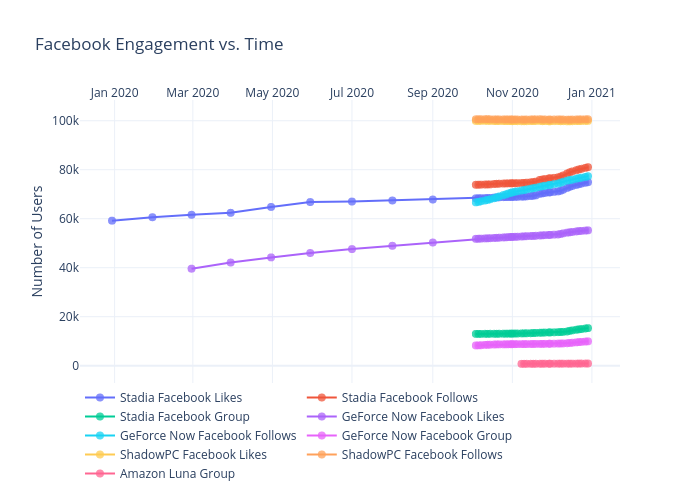
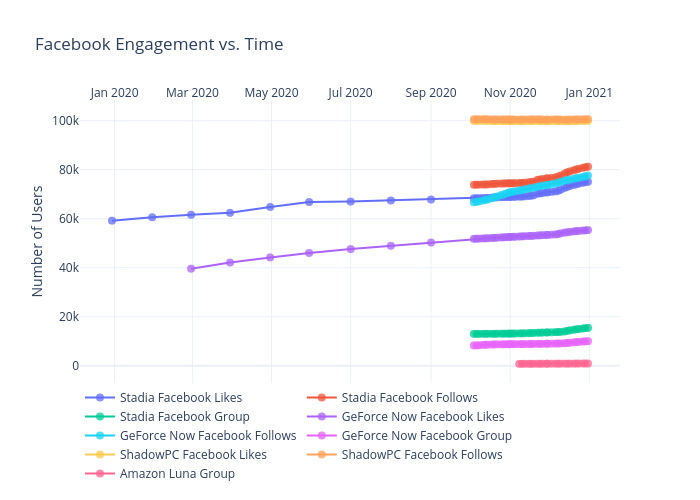
Add files via upload

diff --git a/facebook/figure.js b/facebook/figure.js
@@ -68,7 +68,20 @@ var figure = {
                 "2020-12-27",
                 "2020-12-29",
                 "2020-12-31",
-                "2021-01-03"
+                "2021-01-03",
+                "2021-01-05",
+                "2021-01-07",
+                "2021-01-10",
+                "2021-01-12",
+                "2021-01-14",
+                "2021-01-17",
+                "2021-01-19",
+                "2021-01-21",
+                "2021-01-24",
+                "2021-01-26",
+                "2021-01-28",
+                "2021-01-31",
+                "2021-02-02"
             ],
             "ysrc": "jdeslip:362:0d12c0",
             "y": [
@@ -126,7 +139,8 @@ var figure = {
                 "74088",
                 "74366",
                 "74681",
-                "74911"
+                "74911",
+                "75086"
             ],
             "marker": {
                 "size": 8,
@@ -204,7 +218,20 @@ var figure = {
                 "2020-12-27",
                 "2020-12-29",
                 "2020-12-31",
-                "2021-01-03"
+                "2021-01-03",
+                "2021-01-05",
+                "2021-01-07",
+                "2021-01-10",
+                "2021-01-12",
+                "2021-01-14",
+                "2021-01-17",
+                "2021-01-19",
+                "2021-01-21",
+                "2021-01-24",
+                "2021-01-26",
+                "2021-01-28",
+                "2021-01-31",
+                "2021-02-02"
             ],
             "ysrc": "jdeslip:362:b3ea7e",
             "y": [
@@ -262,7 +289,8 @@ var figure = {
                 "80103",
                 "80377",
                 "80771",
-                "81041"
+                "81041",
+                "81243"
             ],
             "marker": {
                 "size": 8,
@@ -340,7 +368,20 @@ var figure = {
                 "2020-12-27",
                 "2020-12-29",
                 "2020-12-31",
-                "2021-01-03"
+                "2021-01-03",
+                "2021-01-05",
+                "2021-01-07",
+                "2021-01-10",
+                "2021-01-12",
+                "2021-01-14",
+                "2021-01-17",
+                "2021-01-19",
+                "2021-01-21",
+                "2021-01-24",
+                "2021-01-26",
+                "2021-01-28",
+                "2021-01-31",
+                "2021-02-02"
             ],
             "ysrc": "jdeslip:362:e57889",
             "y": [
@@ -398,7 +439,8 @@ var figure = {
                 "14831",
                 "14956",
                 "15175",
-                "15330"
+                "15330",
+                "15449"
             ],
             "marker": {
                 "size": 8,
@@ -476,7 +518,20 @@ var figure = {
                 "2020-12-27",
                 "2020-12-29",
                 "2020-12-31",
-                "2021-01-03"
+                "2021-01-03",
+                "2021-01-05",
+                "2021-01-07",
+                "2021-01-10",
+                "2021-01-12",
+                "2021-01-14",
+                "2021-01-17",
+                "2021-01-19",
+                "2021-01-21",
+                "2021-01-24",
+                "2021-01-26",
+                "2021-01-28",
+                "2021-01-31",
+                "2021-02-02"
             ],
             "ysrc": "jdeslip:362:4e0b8a",
             "y": [
@@ -534,7 +589,8 @@ var figure = {
                 "54956",
                 "55019",
                 "55151",
-                "55250"
+                "55250",
+                "55336"
             ],
             "marker": {
                 "size": 8,
@@ -612,7 +668,20 @@ var figure = {
                 "2020-12-27",
                 "2020-12-29",
                 "2020-12-31",
-                "2021-01-03"
+                "2021-01-03",
+                "2021-01-05",
+                "2021-01-07",
+                "2021-01-10",
+                "2021-01-12",
+                "2021-01-14",
+                "2021-01-17",
+                "2021-01-19",
+                "2021-01-21",
+                "2021-01-24",
+                "2021-01-26",
+                "2021-01-28",
+                "2021-01-31",
+                "2021-02-02"
             ],
             "ysrc": "jdeslip:362:3b7b8c",
             "y": [
@@ -670,7 +739,8 @@ var figure = {
                 "76567",
                 "76753",
                 "77060",
-                "77347"
+                "77347",
+                "77640"
             ],
             "marker": {
                 "size": 8,
@@ -748,7 +818,20 @@ var figure = {
                 "2020-12-27",
                 "2020-12-29",
                 "2020-12-31",
-                "2021-01-03"
+                "2021-01-03",
+                "2021-01-05",
+                "2021-01-07",
+                "2021-01-10",
+                "2021-01-12",
+                "2021-01-14",
+                "2021-01-17",
+                "2021-01-19",
+                "2021-01-21",
+                "2021-01-24",
+                "2021-01-26",
+                "2021-01-28",
+                "2021-01-31",
+                "2021-02-02"
             ],
             "ysrc": "jdeslip:362:60c2c8",
             "y": [
@@ -806,7 +889,8 @@ var figure = {
                 "9628",
                 "9708",
                 "9839",
-                "9929"
+                "9929",
+                "9983"
             ],
             "marker": {
                 "size": 8,
@@ -884,7 +968,20 @@ var figure = {
                 "2020-12-27",
                 "2020-12-29",
                 "2020-12-31",
-                "2021-01-03"
+                "2021-01-03",
+                "2021-01-05",
+                "2021-01-07",
+                "2021-01-10",
+                "2021-01-12",
+                "2021-01-14",
+                "2021-01-17",
+                "2021-01-19",
+                "2021-01-21",
+                "2021-01-24",
+                "2021-01-26",
+                "2021-01-28",
+                "2021-01-31",
+                "2021-02-02"
             ],
             "ysrc": "jdeslip:362:3b7870",
             "y": [
@@ -942,7 +1039,8 @@ var figure = {
                 "99862",
                 "99883",
                 "99910",
-                "99931"
+                "99931",
+                "99949"
             ],
             "marker": {
                 "size": 8,
@@ -1020,7 +1118,20 @@ var figure = {
                 "2020-12-27",
                 "2020-12-29",
                 "2020-12-31",
-                "2021-01-03"
+                "2021-01-03",
+                "2021-01-05",
+                "2021-01-07",
+                "2021-01-10",
+                "2021-01-12",
+                "2021-01-14",
+                "2021-01-17",
+                "2021-01-19",
+                "2021-01-21",
+                "2021-01-24",
+                "2021-01-26",
+                "2021-01-28",
+                "2021-01-31",
+                "2021-02-02"
             ],
             "ysrc": "jdeslip:362:8888b1",
             "y": [
@@ -1078,7 +1189,8 @@ var figure = {
                 "100537",
                 "100558",
                 "100585",
-                "100605"
+                "100605",
+                "100624"
             ],
             "marker": {
                 "size": 8,
@@ -1156,7 +1268,20 @@ var figure = {
                 "2020-12-27",
                 "2020-12-29",
                 "2020-12-31",
-                "2021-01-03"
+                "2021-01-03",
+                "2021-01-05",
+                "2021-01-07",
+                "2021-01-10",
+                "2021-01-12",
+                "2021-01-14",
+                "2021-01-17",
+                "2021-01-19",
+                "2021-01-21",
+                "2021-01-24",
+                "2021-01-26",
+                "2021-01-28",
+                "2021-01-31",
+                "2021-02-02"
             ],
             "ysrc": "jdeslip:362:0c6d36",
             "y": [
@@ -1214,7 +1339,8 @@ var figure = {
                 "851",
                 "863",
                 "872",
-                "874"
+                "874",
+                "880"
             ],
             "marker": {
                 "size": 8,
@@ -1233,8 +1359,8 @@ var figure = {
             "side": "top",
             "type": "date",
             "range": [
-                "2019-12-07 05:30:34.2963",
-                "2021-01-20 18:29:25.7037"
+                "2019-12-07 07:24:21.5471",
+                "2021-01-22 16:35:38.4529"
             ],
             "title": {
                 "text": ""
@@ -1244,8 +1370,8 @@ var figure = {
         "yaxis": {
             "type": "linear",
             "range": [
-                -13269.34756097561,
-                114660.34756097561
+                -6406.542902389866,
+                107797.54290238986
             ],
             "title": {
                 "text": "Number of Users"
